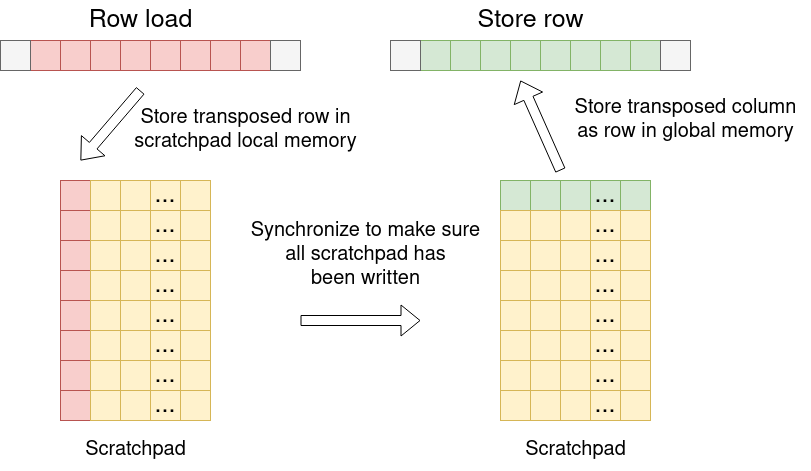
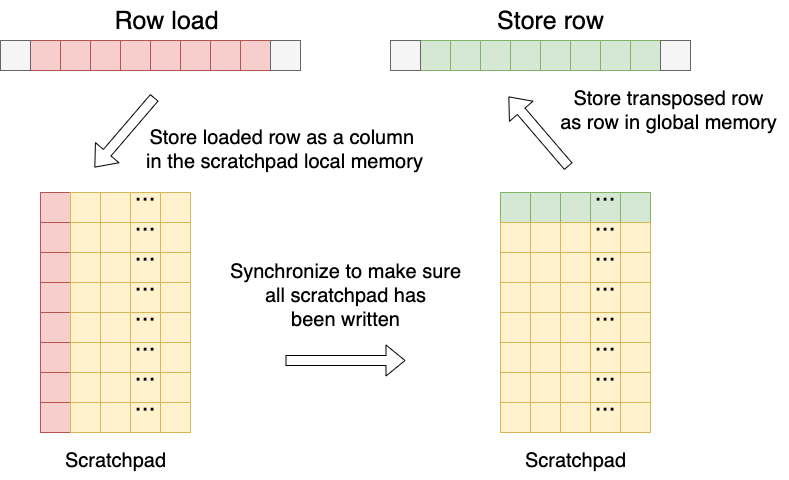
Updated the Lecture 8 - GPU Principles (#289)
* - Rm `access::target::local` in the Local Accessors slide as it was deprecated.

* - Added a clarification for the data race with different work-groups

* Minor change in the description of the transpose illustration

* included the new drawio file

Changed region(s): [[0.0304, 0.0, 1.0, 0.9809], [0.0, 0.0, 0.3954, 0.1486]]

diff --git a/Lesson_Materials/Lecture_08_GPU_Programming_Principles/index.html b/Lesson_Materials/Lecture_08_GPU_Programming_Principles/index.html
@@ -224,8 +224,8 @@ auto scratchpad = sycl::local_accessor&lt;int, dims&gt;(sycl::range{workGroupSiz
 						</code></pre>
 					</div>
 					<div class="container" data-markdown>
-						* Local memory is allocated via an `accessor` with the `access::target::local` access target.
-						* Unlike regular `accessor`s they are not created with a `buffer`, they allocate memory per work-group for the duration of the kernel function.
+						* Local memory is allocated via an `local_accessor`.
+						* Unlike regular `accessor`s, `local_accessor`s are not created with a `buffer`. They allocate memory per work-group for the duration of the kernel function.
 						* The `range` provided is the number of elements of the specified type to allocate per work-group.
 					</div>
 				</section>
@@ -350,7 +350,7 @@ auto scratchpad = sycl::local_accessor&lt;int, dims&gt;(sycl::range{workGroupSiz
 						<div class="col" data-markdown>
 							* However note that this does not apply across work-group boundaries.
 							* So if you write in a work-item of one work-group and then read it in a work-item of another work-group you again have a data race.
-							* Furthermore, remember that work-items can only access their own local memory and not that of any other work-groups.
+							* Furthermore, remember that work-items can only access their own local memory and not that of any other work-groups. Thus a data race between different work-groups only happens with the global memory accesses.
 						</div>
 					</div>
 				</section>
